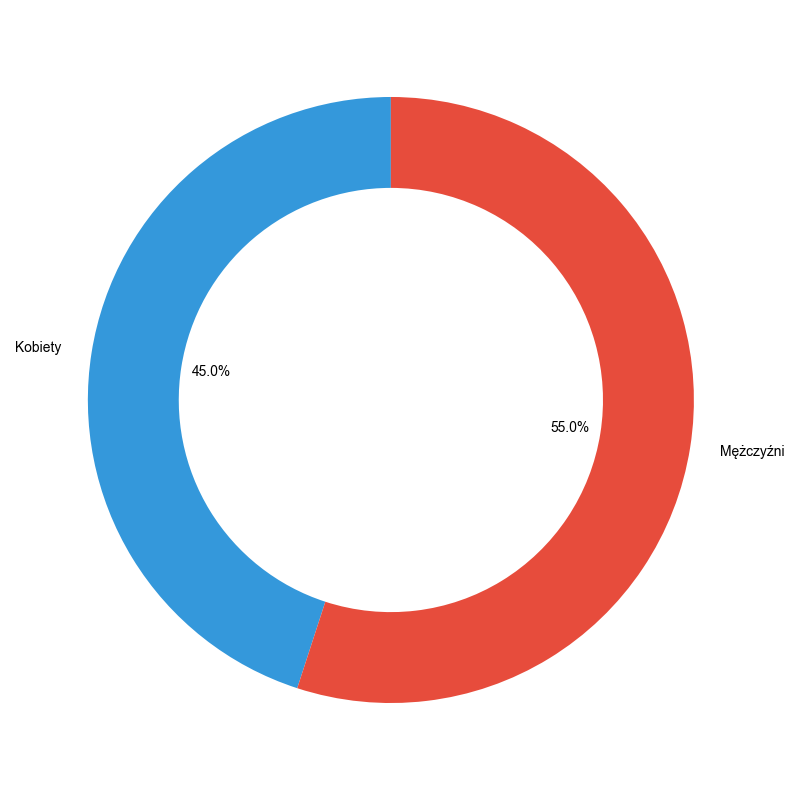
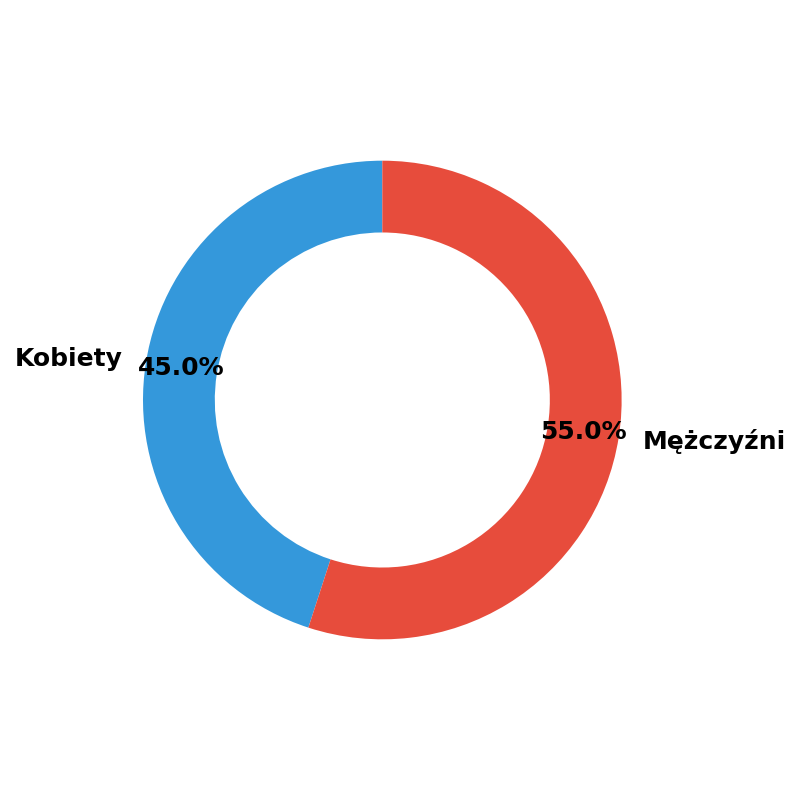
better plots

Changed region(s): [[0.0, 0.0938, 1.0, 0.9062]]

diff --git a/data_generation/data_gen.py b/data_generation/data_gen.py
@@ -36,19 +36,19 @@ def plot_likert_scale(data):
     plt.tight_layout()
     plt.show()
 
-def plot_gender_ratio(male_ratio=0.45, total_participants=1000):
+def plot_gender_ratio(male_ratio=0.35, total_participants=1000):
     set_plot_style()
 
     male_count = int(total_participants * male_ratio)
     female_count = total_participants - male_count
 
     gender_sizes = [male_count, female_count]
-    gender_labels = ['Kobiety', 'Mężczyźni']
+    gender_labels = ['Posiada dzieci', 'Nie posiada dzieci']
     gender_colors = ['#3498db', '#e74c3c']
 
     fig, ax = plt.subplots(figsize=(8, 8))
     ax.pie(gender_sizes, labels=gender_labels, colors=gender_colors, autopct='%1.1f%%',
-           startangle=90, wedgeprops=dict(width=0.3))
+           startangle=90, wedgeprops=dict(width=0.3), textprops={'fontsize': 18, 'fontweight': 'bold'}, pctdistance=0.85)  # Adjusted textprops
     ax.axis('equal')
 
     plt.tight_layout()
@@ -59,7 +59,7 @@ def plot_three_category_distribution(category_names, sizes, colors):
 
     fig, ax = plt.subplots(figsize=(8, 8))
     ax.pie(sizes, labels=category_names, colors=colors, autopct='%1.1f%%',
-           startangle=90, wedgeprops=dict(width=0.3))
+           startangle=90, wedgeprops=dict(width=0.3), textprops={'fontsize': 18, 'fontweight': 'bold'}, pctdistance=0.85)  # Adjusted textprops
     ax.axis('equal')
 
     plt.tight_layout()
@@ -114,8 +114,8 @@ sizes = [38, 97, 165]  # Adjusted to sum up to 250
 colors = ['#3498db', '#e74c3c', '#2ecc71']
 
 
-#plot_gender_ratio()
-#plot_three_category_distribution(category_names, sizes, colors)
+plot_gender_ratio()
+plot_three_category_distribution(category_names, sizes, colors)
 
 #integer_data = generate_integer_normal_data(mean=5, std_dev=3)
 #plot_integer_distribution(integer_data)
@@ -123,5 +123,5 @@ colors = ['#3498db', '#e74c3c', '#2ecc71']
 #likert_data = generate_likert_data()
 #plot_likert_scale(likert_data)
 
-integer_data = generate_integer_normal_data(mean=98, std_dev=30, zero_boost=5)
-plot_integer_distribution(integer_data)
+#integer_data = generate_integer_normal_data(mean=98, std_dev=30, zero_boost=5)
+#plot_integer_distribution(integer_data)
